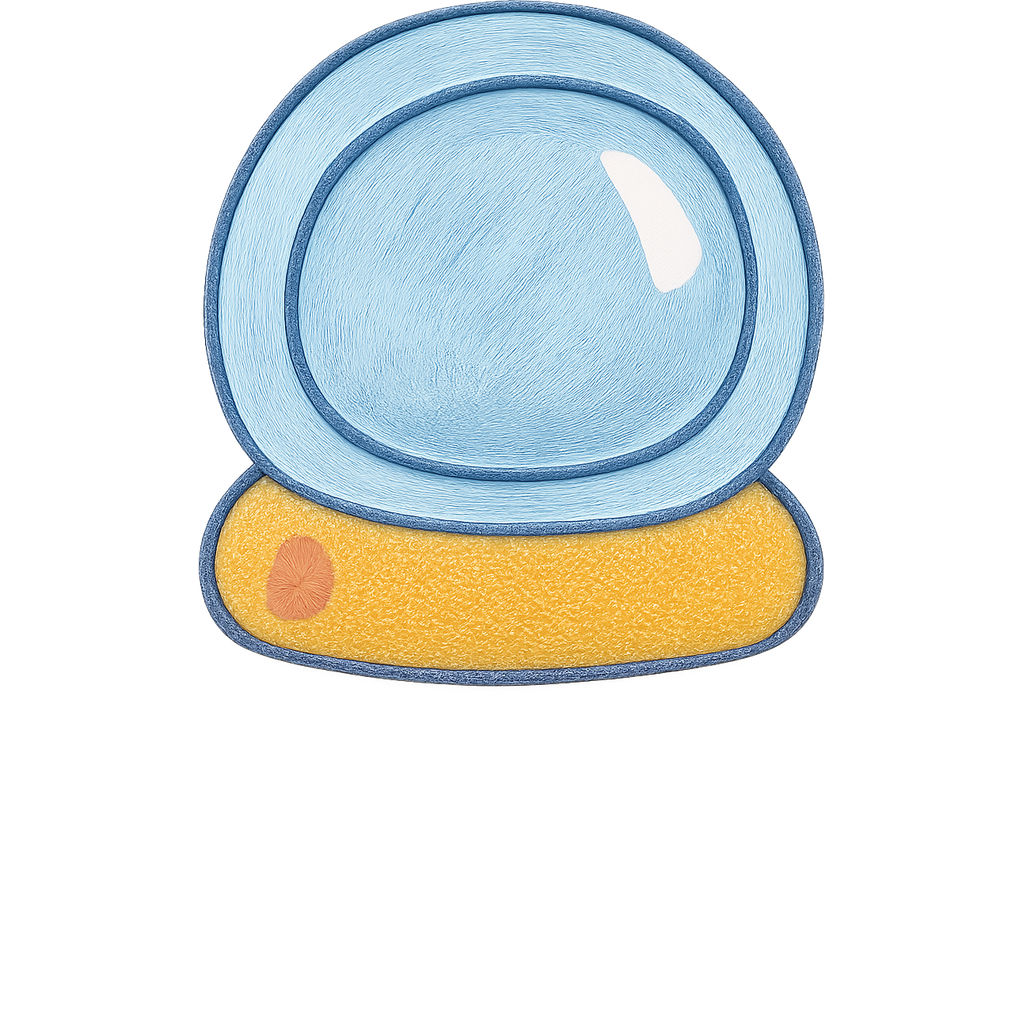
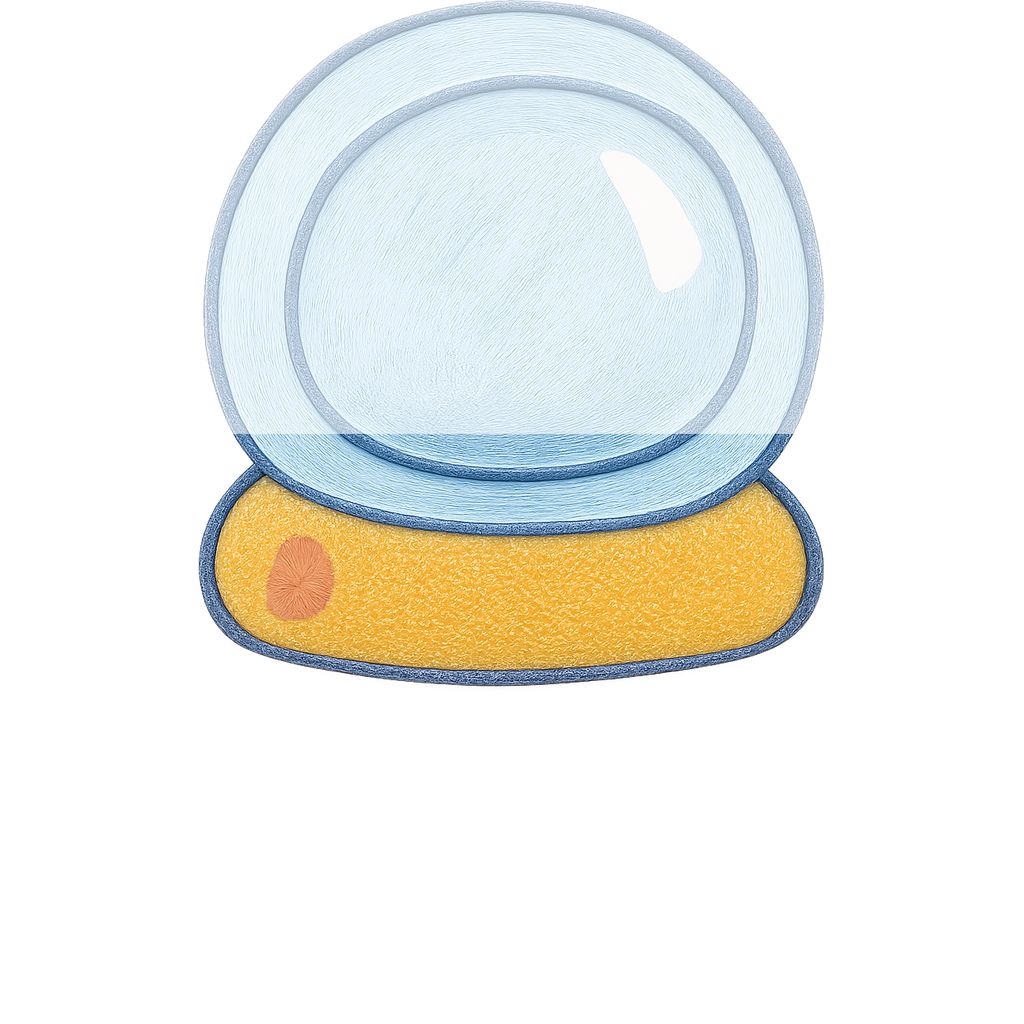
feat(collection): drop headphones + see-through astronaut helmet
Toby's call on the headwear set:

- Headphones removed. They were tricky to anchor for a frog (no
  external ears — tympanums are flat disks on the sides of the head)
  and the cups always either covered the eyes or floated. Slot freed
  for hair styles as the replacement category.

- Astronaut helmet now a translucent glass dome. The bubble portion
  of the helmet trim (top ~62%) gets its alpha dropped to 40% before
  placement, so the frog's face reads cleanly through it. The collar
  (bottom 38%) stays opaque. Handled by a new HEADWEAR_TRIM_TRANSFORMS
  registry in the build script — drop-in for any future piece that
  needs post-trim alpha or colour tweaks.

Manifest regenerated with 10 hats (was 11). Distribution unchanged.

Changed region(s): [[0.1875, 0.0, 0.8125, 0.4375]]

diff --git a/app/data/collection-traits.ts b/app/data/collection-traits.ts
@@ -141,7 +141,6 @@ export const TRAIT_CATEGORIES: TraitCategory[] = [
       { key: "chef-hat", label: "Chef's Hat", weight: 55, layer: headwear("chef-hat"), source: "hungry-pie" },
       { key: "sailor-cap", label: "Sailor Cap", weight: 45, layer: headwear("sailor-cap"), source: "lost-at-sea" },
       { key: "top-hat", label: "Top Hat", weight: 35, layer: headwear("top-hat"), source: "lovely-children" },
-      { key: "headphones", label: "Headphones", weight: 25, layer: headwear("headphones"), source: "table-dancing" },
       { key: "pirate-hat", label: "Pirate Hat", weight: 16, layer: headwear("pirate-hat") },
       { key: "birthday-12", label: "Birthday “12” Hat", weight: 12, layer: headwear("birthday-12") },
       { key: "astronaut-helmet", label: "Astronaut Helmet", weight: 8, layer: headwear("astronaut-helmet"), source: "space-frog" },

diff --git a/scripts/build-collection-layers.py b/scripts/build-collection-layers.py
@@ -65,7 +65,6 @@ HEADWEAR_PLACEMENT: dict[str, dict] = {
     "chef-hat":         {"max_w": 360, "max_h": 280, "anchor_y":  40, "dx": 0},
     "sailor-cap":       {"max_w": 460, "max_h": 220, "anchor_y":  70, "dx": 0},
     "top-hat":          {"max_w": 440, "max_h": 300, "anchor_y":  40, "dx": 0},
-    "headphones":       {"max_w": 600, "max_h": 280, "anchor_y":  80, "dx": 0},
     "pirate-hat":       {"max_w": 620, "max_h": 260, "anchor_y":  60, "dx": 0},
     "birthday-12":      {"max_w": 360, "max_h": 280, "anchor_y":  40, "dx": 0},
     "astronaut-helmet": {"max_w": 720, "max_h": 700, "anchor_y": 480, "dx": 0},
@@ -91,7 +90,7 @@ HELD_GENERATED = ["butterfly-net", "barbell", "frog-plush", "magic-wand",
 BACKGROUNDS = ["notebook", "pond", "farmyard", "sunset", "kitchen", "stage",
                "night-sky", "rainbow-rain", "underwater", "outer-space"]
 HEADWEAR = ["party-hat", "beanie", "flower-crown", "chef-hat", "sailor-cap",
-            "top-hat", "headphones", "pirate-hat", "birthday-12",
+            "top-hat", "pirate-hat", "birthday-12",
             "astronaut-helmet", "crown"]
 EYEWEAR = ["round-glasses", "sunglasses", "nerd-glasses", "swim-goggles",
            "heart-glasses", "star-glasses", "monocle"]
@@ -127,6 +126,34 @@ def place_in_box(src: Path, box: tuple[int, int, int, int]) -> Image.Image:
     return canvas
 
 
+def _make_helmet_bubble_translucent(art: Image.Image) -> Image.Image:
+    """Reduce alpha on the top portion of an astronaut-helmet trim so the
+    bubble becomes a glass dome — the frog's face shows through. The
+    collar (bottom portion of the trim) stays opaque.
+    """
+    bb = art.getbbox()
+    if not bb:
+        return art
+    # The bubble is ~ the top 62% of the helmet trim; collar is the rest.
+    split_y = bb[1] + int((bb[3] - bb[1]) * 0.62)
+    bubble = art.crop((0, 0, art.width, split_y))
+    collar = art.crop((0, split_y, art.width, art.height))
+    r, g, b, a = bubble.split()
+    # Drop bubble alpha to ~40% — still tinted, but the face reads through.
+    a = a.point(lambda p: int(p * 0.40))
+    bubble = Image.merge("RGBA", (r, g, b, a))
+    out = Image.new("RGBA", art.size, (0, 0, 0, 0))
+    out.paste(bubble, (0, 0))
+    out.paste(collar, (0, split_y))
+    return out
+
+
+# Headwear pieces that get post-trim alpha tweaks before placement.
+HEADWEAR_TRIM_TRANSFORMS = {
+    "astronaut-helmet": _make_helmet_bubble_translucent,
+}
+
+
 def place_on_head(src: Path, key: str) -> Image.Image:
     """Place a hat by its per-piece spec in HEADWEAR_PLACEMENT.
 
@@ -136,6 +163,9 @@ def place_on_head(src: Path, key: str) -> Image.Image:
     """
     spec = HEADWEAR_PLACEMENT[key]
     art = trimmed(src)
+    transform = HEADWEAR_TRIM_TRANSFORMS.get(key)
+    if transform is not None:
+        art = transform(art)
     scale = min(spec["max_w"] / art.width, spec["max_h"] / art.height)
     new_w = max(1, round(art.width * scale))
     new_h = max(1, round(art.height * scale))
